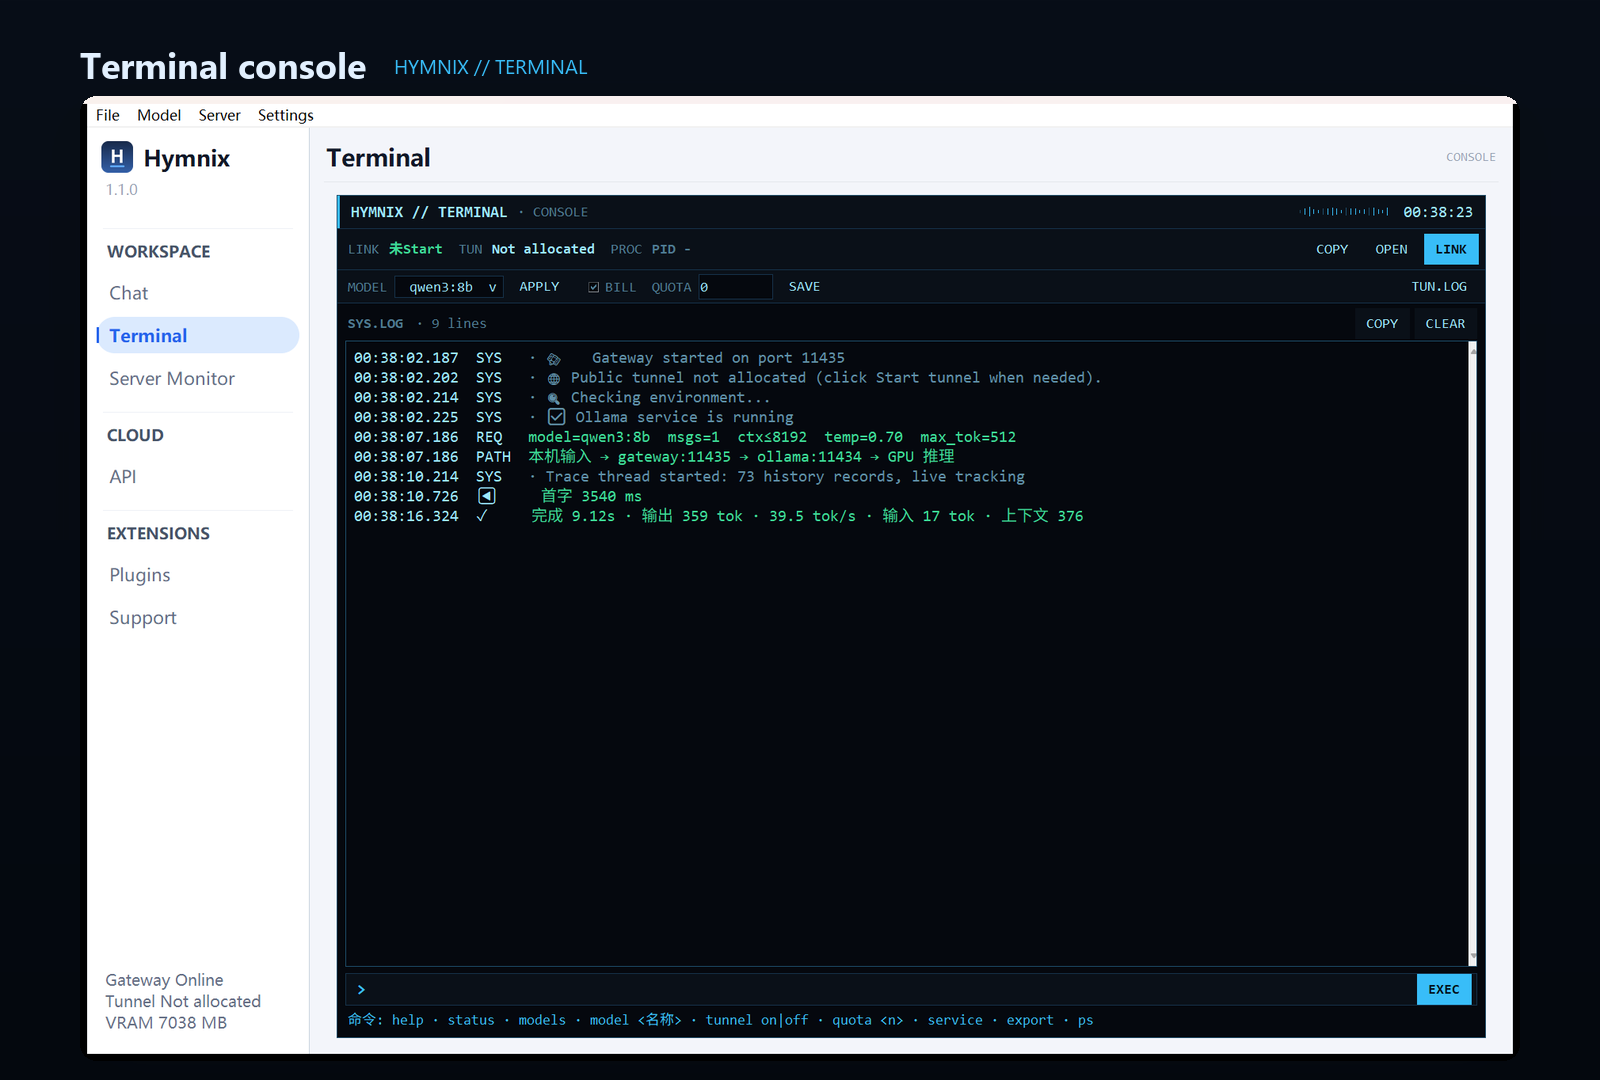
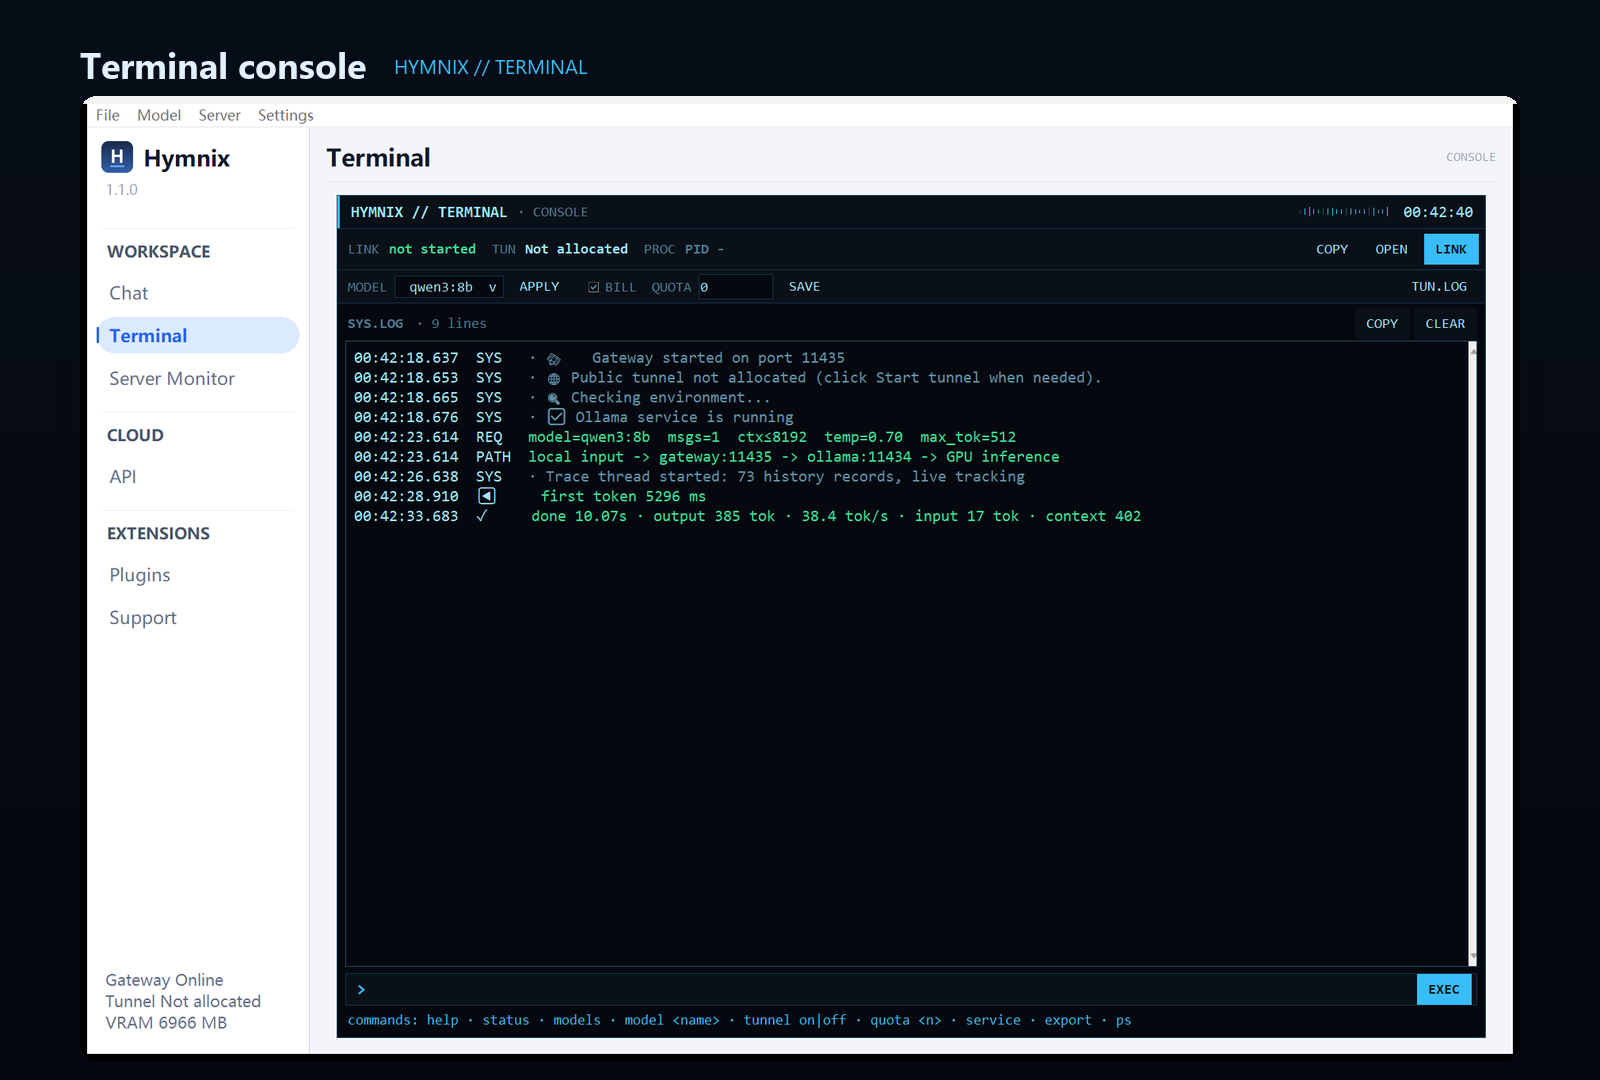
feat(i18n): translate terminal log lines and status chips

diff --git a/server/hymnix_main.py b/server/hymnix_main.py
@@ -3730,7 +3730,7 @@ class HuimengAIClient:
         self.message_queue.put(("trace", "%s  REQ   model=%s  msgs=%d  ctx≤%d  temp=%.2f  max_tok=%d  tools=%s" % (
             self._now_ts(), self.current_model, len(msgs), num_ctx, temp, num_predict,
             ("%d 个" % len(tools)) if tools else "关闭")))
-        self.message_queue.put(("trace", "%s  PATH  本机输入 → gateway:11435 → ollama:11434 → %s 推理" % (
+        self.message_queue.put(("trace", T("%s  PATH  本机输入 → gateway:11435 → ollama:11434 → %s 推理", "%s  PATH  local input -> gateway:11435 -> ollama:11434 -> %s inference") % (
             self._now_ts(), "GPU" if device != "cpu" else "CPU")))
         t0 = time.time()
         final_answer = ""
@@ -3775,7 +3775,7 @@ class HuimengAIClient:
                         if piece:
                             if first_at is None:
                                 first_at = time.time()
-                                self.message_queue.put(("trace", "%s  ◀     首字 %.0f ms" % (
+                                self.message_queue.put(("trace", T("%s  ◀     首字 %.0f ms", "%s  ◀     first token %.0f ms") % (
                                     self._now_ts(), (first_at - t0) * 1000)))
                             collected.append(piece)
                             self.message_queue.put(("chunk", piece))
@@ -3800,7 +3800,7 @@ class HuimengAIClient:
                 ptok = final.get("prompt_eval_count") or 0
                 etok = final.get("eval_count") or len(text)
                 tps = (etok / eval_dur) if eval_dur else 0
-                self.message_queue.put(("trace", "%s  ✓     完成 %.2fs · 输出 %d tok · %.1f tok/s · 输入 %d tok" % (
+                self.message_queue.put(("trace", T("%s  ✓     完成 %.2fs · 输出 %d tok · %.1f tok/s · 输入 %d tok", "%s  ✓     done %.2fs · output %d tok · %.1f tok/s · input %d tok") % (
                     self._now_ts(), total, etok, tps, ptok)))
                 if text:
                     self.conversation_history.append({"role": "assistant", "content": text})
@@ -3948,7 +3948,7 @@ class HuimengAIClient:
         timeout = int(self.config.get("api_timeout", 300) or 300)
         self.message_queue.put(("trace", "%s  REQ   model=%s  msgs=%d  ctx≤%d  temp=%.2f  max_tok=%d" % (
             self._now_ts(), self.current_model, len(self.conversation_history), num_ctx, temp, num_predict)))
-        self.message_queue.put(("trace", "%s  PATH  本机输入 → gateway:11435 → ollama:11434 → %s 推理" % (
+        self.message_queue.put(("trace", T("%s  PATH  本机输入 → gateway:11435 → ollama:11434 → %s 推理", "%s  PATH  local input -> gateway:11435 -> ollama:11434 -> %s inference") % (
             self._now_ts(), "GPU" if device != "cpu" else "CPU")))
         collected = []
         final = {}
@@ -3984,7 +3984,7 @@ class HuimengAIClient:
                     if piece:
                         if first_at is None:
                             first_at = time.time()
-                            self.message_queue.put(("trace", "%s  ◀     首字 %.0f ms" % (
+                            self.message_queue.put(("trace", T("%s  ◀     首字 %.0f ms", "%s  ◀     first token %.0f ms") % (
                                 self._now_ts(), (first_at - t0) * 1000)))
                         collected.append(piece)
                         self.message_queue.put(("chunk", piece))
@@ -3999,7 +3999,7 @@ class HuimengAIClient:
             ptok = final.get("prompt_eval_count") or 0
             etok = final.get("eval_count") or len(answer)
             tps = (etok / eval_dur) if eval_dur else 0
-            self.message_queue.put(("trace", "%s  ✓     完成 %.2fs · 输出 %d tok · %.1f tok/s · 输入 %d tok · 上下文 %d" % (
+            self.message_queue.put(("trace", T("%s  ✓     完成 %.2fs · 输出 %d tok · %.1f tok/s · 输入 %d tok · 上下文 %d", "%s  ✓     done %.2fs · output %d tok · %.1f tok/s · input %d tok · context %d") % (
                 self._now_ts(), total, etok, tps, ptok,
                 (final.get("prompt_eval_count") or 0) + (final.get("eval_count") or 0))))
         except requests.exceptions.Timeout:
@@ -5185,7 +5185,7 @@ class HuimengAIClient:
         tk.Frame(outer, bg=self.C_LINE, height=1).pack(fill="x")
 
         # ---- 状态栏：链路 / 隧道 / 进程 ----
-        self.trace_tunnel_status = tk.StringVar(value="未启动")
+        self.trace_tunnel_status = tk.StringVar(value=T("未启动", "not started"))
         self.trace_tunnel_url = tk.StringVar(value="未分配")
         self.trace_tunnel_pid = tk.StringVar(value="PID -")
         stat = tk.Frame(outer, bg=self.C_PANEL)
@@ -5309,7 +5309,7 @@ class HuimengAIClient:
         tk.Label(foot, textvariable=self.trace_hint, bg=self.C_BG, fg=self.C_ACC,
                  font=("Consolas", 9), anchor="w").pack(fill="x")
         self.trace_hint.set(
-            "命令: help · status · models · model <名称> · tunnel on|off · quota <n> · service · export · ps")
+            T("命令: help · status · models · model <名称> · tunnel on|off · quota <n> · service · export · ps", "commands: help · status · models · model <name> · tunnel on|off · quota <n> · service · export · ps"))
 
         self._reset_trace_model_values()
         self._sync_trace_model_label()
@@ -5373,7 +5373,9 @@ class HuimengAIClient:
     def _refresh_trace_tunnel(self):
         try:
             state = HOST.get("tunnel_state") or ("online" if HOST.get("url") else "未启动")
-            self.trace_tunnel_status.set({"up":"在线", "starting":"连接中", "off":"未启动"}.get(state, state))
+            _raw = {"在线": "up", "未启动": "off", "连接中": "starting"}.get(state, state)
+            _map = {"up": T("在线", "online"), "starting": T("连接中", "connecting"), "off": T("未启动", "not started")}
+            self.trace_tunnel_status.set(_map.get(_raw, T(state, state)))
             self.trace_tunnel_url.set(HOST.get("url") or "未分配")
             proc=getattr(self, "_host_tun", None)
             self.trace_tunnel_pid.set("PID %s" % (getattr(proc, "pid", "-") if proc else "-"))
